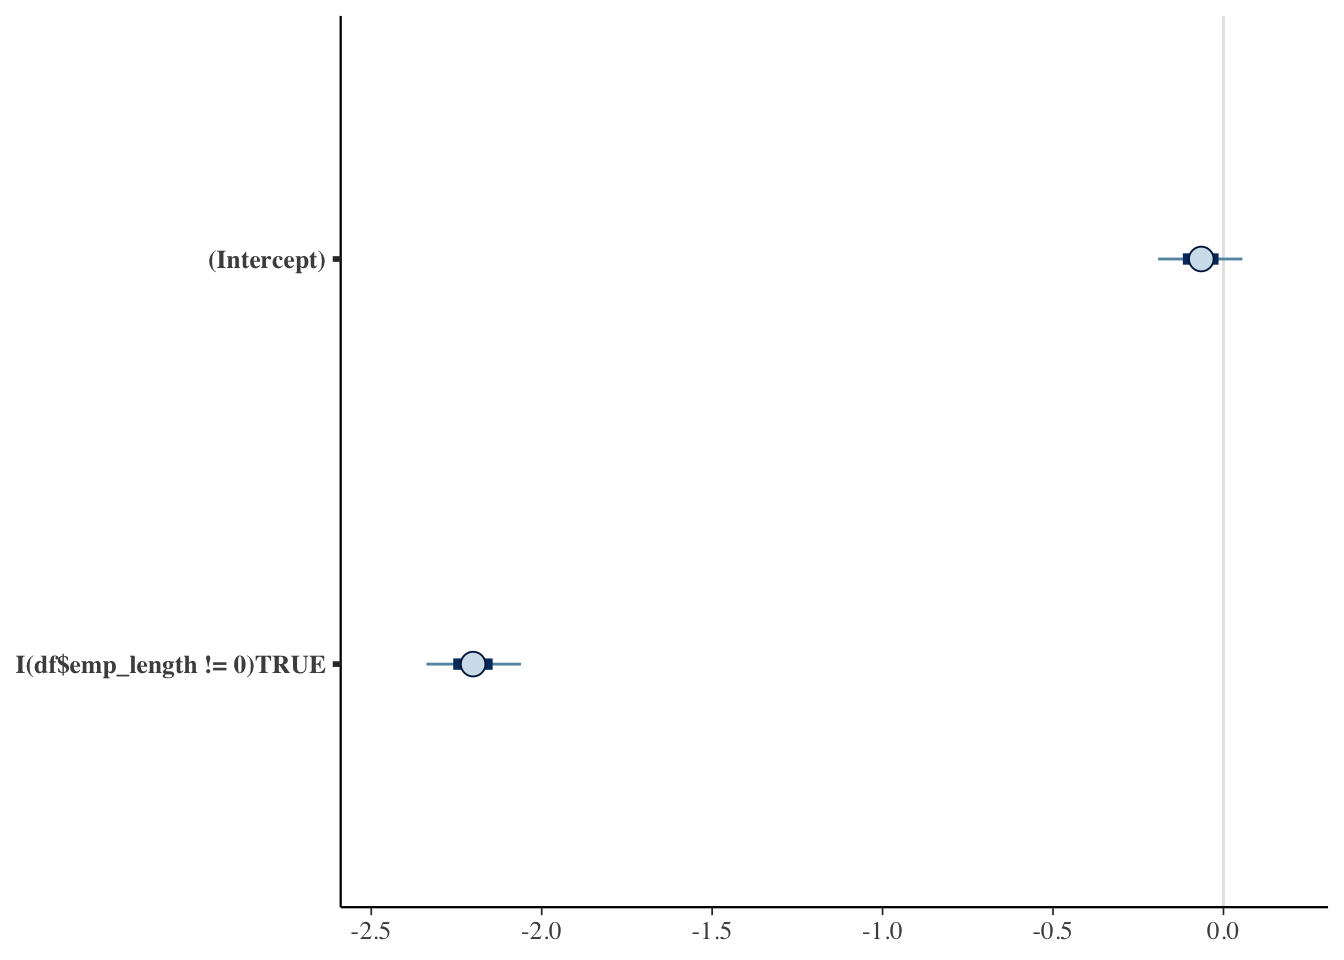
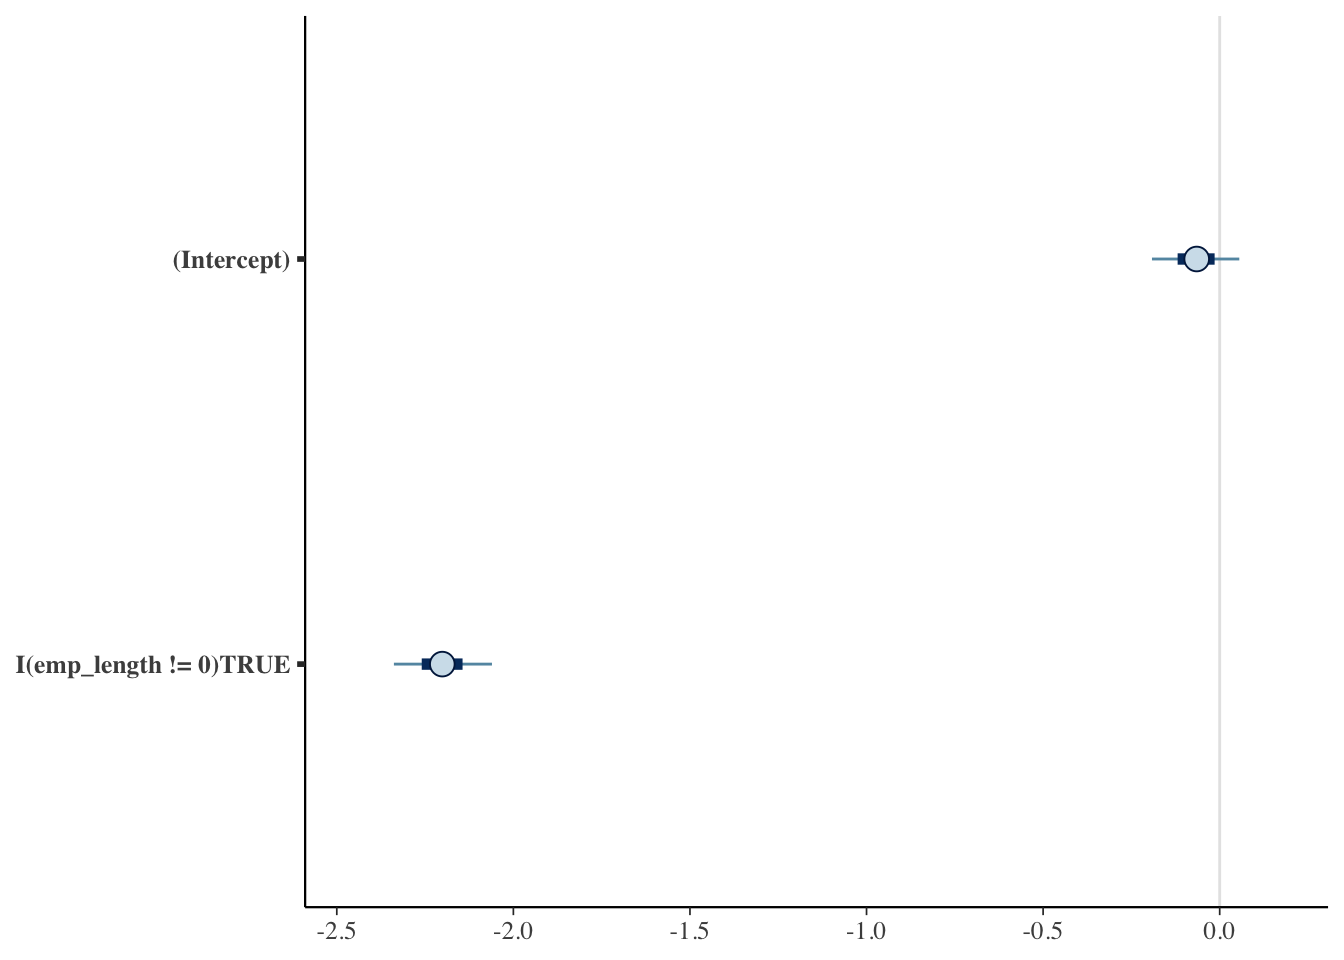
Minor edits

diff --git a/rstanarm.html b/rstanarm.html
@@ -232,10 +232,11 @@ code span.wa { color: #60a0b0; font-weight: bold; font-style: italic; } /* Warni
 </div>
 </div>
 <div class="cell">
-<div class="sourceCode cell-code" id="cb6"><pre class="sourceCode r code-with-copy"><code class="sourceCode r"><span id="cb6-1"><a href="#cb6-1" aria-hidden="true" tabindex="-1"></a>post_sim <span class="ot">=</span> <span class="fu">stan_glm</span>(lowgrade_sim <span class="sc">~</span> <span class="fu">I</span>(df<span class="sc">$</span>emp_length <span class="sc">!=</span> <span class="dv">0</span>),</span>
+<div class="sourceCode cell-code" id="cb6"><pre class="sourceCode r code-with-copy"><code class="sourceCode r"><span id="cb6-1"><a href="#cb6-1" aria-hidden="true" tabindex="-1"></a>post_sim <span class="ot">=</span> <span class="fu">stan_glm</span>(lowgrade_sim <span class="sc">~</span> <span class="fu">I</span>(emp_length <span class="sc">!=</span> <span class="dv">0</span>),</span>
 <span id="cb6-2"><a href="#cb6-2" aria-hidden="true" tabindex="-1"></a>                    <span class="at">family =</span> <span class="fu">binomial</span>(<span class="at">link =</span> <span class="st">"logit"</span>),</span>
 <span id="cb6-3"><a href="#cb6-3" aria-hidden="true" tabindex="-1"></a>                    <span class="at">prior =</span> <span class="fu">normal</span>(),</span>
-<span id="cb6-4"><a href="#cb6-4" aria-hidden="true" tabindex="-1"></a>                    <span class="at">prior_intercept =</span> <span class="fu">normal</span>())</span></code><button title="Copy to Clipboard" class="code-copy-button"><i class="bi"></i></button></pre></div>
+<span id="cb6-4"><a href="#cb6-4" aria-hidden="true" tabindex="-1"></a>                    <span class="at">prior_intercept =</span> <span class="fu">normal</span>(),</span>
+<span id="cb6-5"><a href="#cb6-5" aria-hidden="true" tabindex="-1"></a>                    <span class="at">data =</span> df)</span></code><button title="Copy to Clipboard" class="code-copy-button"><i class="bi"></i></button></pre></div>
 </div>
 <div class="cell">
 <div class="sourceCode cell-code" id="cb7"><pre class="sourceCode r code-with-copy"><code class="sourceCode r"><span id="cb7-1"><a href="#cb7-1" aria-hidden="true" tabindex="-1"></a><span class="fu">plot</span>(post_sim)</span></code><button title="Copy to Clipboard" class="code-copy-button"><i class="bi"></i></button></pre></div>
